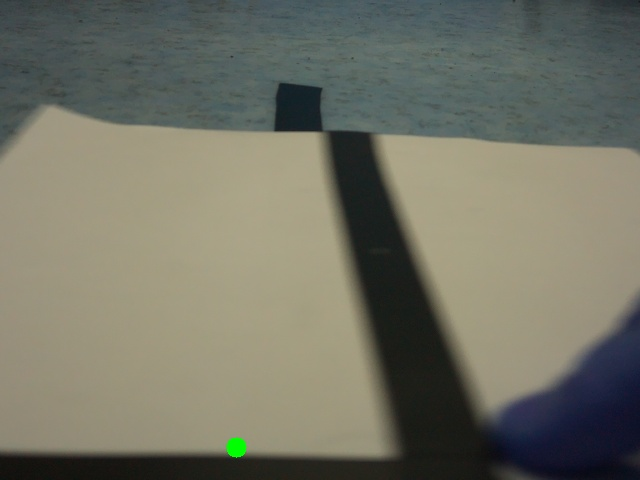
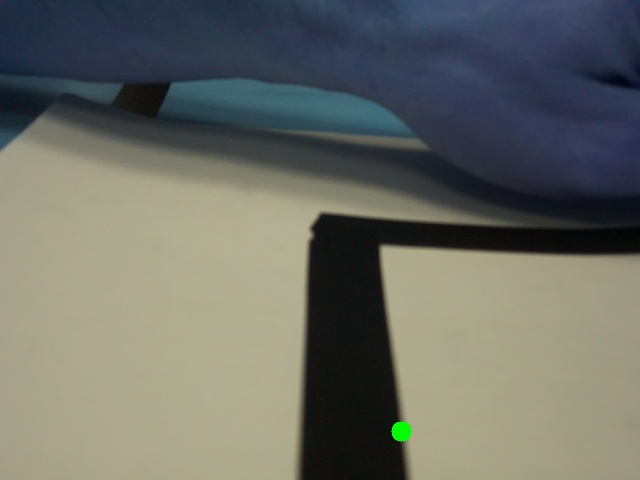
dodana kamerka i miejsce na regulator

diff --git a/ZZUM_laboratorium/cam_lf.py b/ZZUM_laboratorium/cam_lf.py
@@ -59,69 +59,73 @@ def search_for_contures():
 
     return contours, cropped_img, dilated_edges, start_height, end_height
 
-# def search_for_centroid():
+def search_for_centroid(image):
+     # Przechwycenie bieżącej klatki
+    global cX
+    # Sprawdź wymiary obrazu
+    height, width = image.shape[:2]
+
+    # Przycinasz obraz (np. 60% do 80% wysokości)
+    start_height = int(height * 0.8)
+    end_height = int(height * 1)
+    cropped_img = image[start_height:end_height, :]  # Wycinamy od 60% do 80% wysokości
+
+    # Konwersja do skali szarości
+    gray_img = cv2.cvtColor(cropped_img, cv2.COLOR_BGR2GRAY)
+
+    # Filtracja przed binaryzacją (rozmycie Gaussa)
+    blurred_img = cv2.GaussianBlur(gray_img, (9, 9), 0)
+
+    # Obliczanie średniej jasności obrazu
+    mean_intensity = np.mean(gray_img)
+    # Ustalanie progów w zależności od średniej jasności
+    lower_thresh = int(max(0, 0.66 * mean_intensity))
+    upper_thresh = int(min(255, 1.03 * mean_intensity))
+
+    # Detekcja krawędzi (Canny) z dynamicznymi progami
+    edges = cv2.Canny(blurred_img, threshold1=lower_thresh, threshold2=upper_thresh)
+
+    # Dilatacja krawędzi, aby wzmocnić kontury
+    kernel = np.ones((5, 5), np.uint8)
+    dilated_edges = cv2.dilate(edges, kernel, iterations=2)
+
+    # Znalezienie konturów
+    contours, _ = cv2.findContours(dilated_edges, cv2.RETR_EXTERNAL, cv2.CHAIN_APPROX_SIMPLE)
+    # contours, cropped_img, dilated_edges, start_height, _ = search_for_contures()
+    # Obliczenie łącznego momentu dla wszystkich konturów
+    M_total = {'m00': 0, 'm10': 0, 'm01': 0}
+
+    write_images(cropped_img, dilated_edges)
+    for contour in contours:
+        M = cv2.moments(contour)
+        if M["m00"] > 0:
+            M_total['m00'] += M['m00']
+            M_total['m10'] += M['m10']
+            M_total['m01'] += M['m01']
+
+    # Obliczenie środka ciężkości
+    if M_total["m00"] > 0:
+        cX = int(M_total["m10"] / M_total["m00"])
+        cY = int(M_total["m01"] / M_total["m00"])
+
+        #print(f"Środek: ({int(cX/6.4-50)})")
+        # write_images(centroid=True, cX=cX, cY=cY + start_height)
+    else:
+        #print("Brak wykrytych konturów z niezerowym momentem.")
+        #print(f"Poprzedni srodek: ({int(cX/6.4-50)})")
+        pass
+    return int(cX/6.4-50)
 
 try:
     while True:
-        # Przechwycenie bieżącej klatki
         image = picam2.capture_array()
+        cX = search_for_centroid(image=image)
+        print(f"Środek: ({cX})")
+        # # TODO: Sterowanie silnikami
 
-        # Sprawdź wymiary obrazu
-        height, width = image.shape[:2]
-
-        # Przycinasz obraz (np. 60% do 80% wysokości)
-        start_height = int(height * 0.8)
-        end_height = int(height * 1)
-        cropped_img = image[start_height:end_height, :]  # Wycinamy od 60% do 80% wysokości
-
-        # Konwersja do skali szarości
-        gray_img = cv2.cvtColor(cropped_img, cv2.COLOR_BGR2GRAY)
-
-        # Filtracja przed binaryzacją (rozmycie Gaussa)
-        blurred_img = cv2.GaussianBlur(gray_img, (9, 9), 0)
-
-        # Obliczanie średniej jasności obrazu
-        mean_intensity = np.mean(gray_img)
-        # Ustalanie progów w zależności od średniej jasności
-        lower_thresh = int(max(0, 0.66 * mean_intensity))
-        upper_thresh = int(min(255, 1.03 * mean_intensity))
-
-        # Detekcja krawędzi (Canny) z dynamicznymi progami
-        edges = cv2.Canny(blurred_img, threshold1=lower_thresh, threshold2=upper_thresh)
-
-        # Dilatacja krawędzi, aby wzmocnić kontury
-        kernel = np.ones((5, 5), np.uint8)
-        dilated_edges = cv2.dilate(edges, kernel, iterations=2)
-
-        # Znalezienie konturów
-        contours, _ = cv2.findContours(dilated_edges, cv2.RETR_EXTERNAL, cv2.CHAIN_APPROX_SIMPLE)
-        # contours, cropped_img, dilated_edges, start_height, _ = search_for_contures()
-        # Obliczenie łącznego momentu dla wszystkich konturów
-        M_total = {'m00': 0, 'm10': 0, 'm01': 0}
-
-        write_images(cropped_img, dilated_edges)
-        for contour in contours:
-            M = cv2.moments(contour)
-            if M["m00"] > 0:
-                M_total['m00'] += M['m00']
-                M_total['m10'] += M['m10']
-                M_total['m01'] += M['m01']
-
-        # Obliczenie środka ciężkości
-        if M_total["m00"] > 0:
-            cX = int(M_total["m10"] / M_total["m00"])
-            cY = int(M_total["m01"] / M_total["m00"])
-
-            print(f"Środek: ({int(cX/6.4-50)})")
-            write_images(centroid=True, cX=cX, cY=cY + start_height)
-        else:
-            print("Brak wykrytych konturów z niezerowym momentem.")
-            print(f"Poprzedni srodek: ({int(cX/6.4-50)})")
-
-        # TODO: Sterowanie silnikami
 
         # Interwał czasowy (np. 1 sekunda)
-        time.sleep(1)
+        time.sleep(0.1)
 
 except KeyboardInterrupt:
     print("Przerwano działanie programu.")

diff --git a/ZZUM_laboratorium/sens_lf.py b/ZZUM_laboratorium/sens_lf.py
@@ -111,6 +111,7 @@ def read_line(min_values, max_values):
         max(0, min(1000, 1000 * (raw_values[i] - min_values[i]) // (max_values[i] - min_values[i] + 1)))
         for i in range(NUM_SENSORS)
     ]
+    print(normalized)
     if DEBUG:
         print("Raw values:", raw_values)
         print("Normalized values:", normalized)
